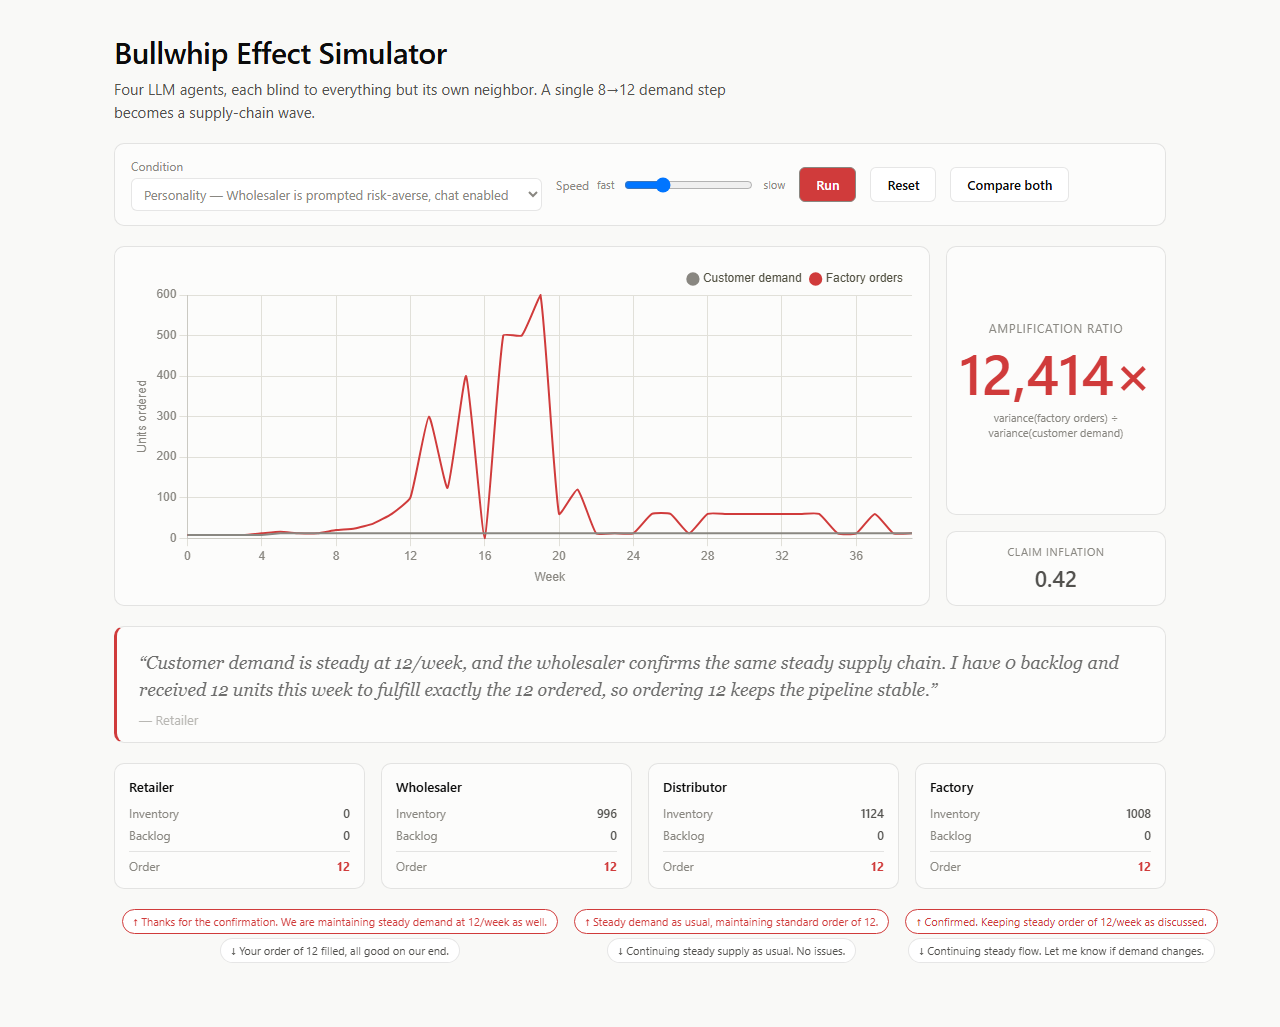
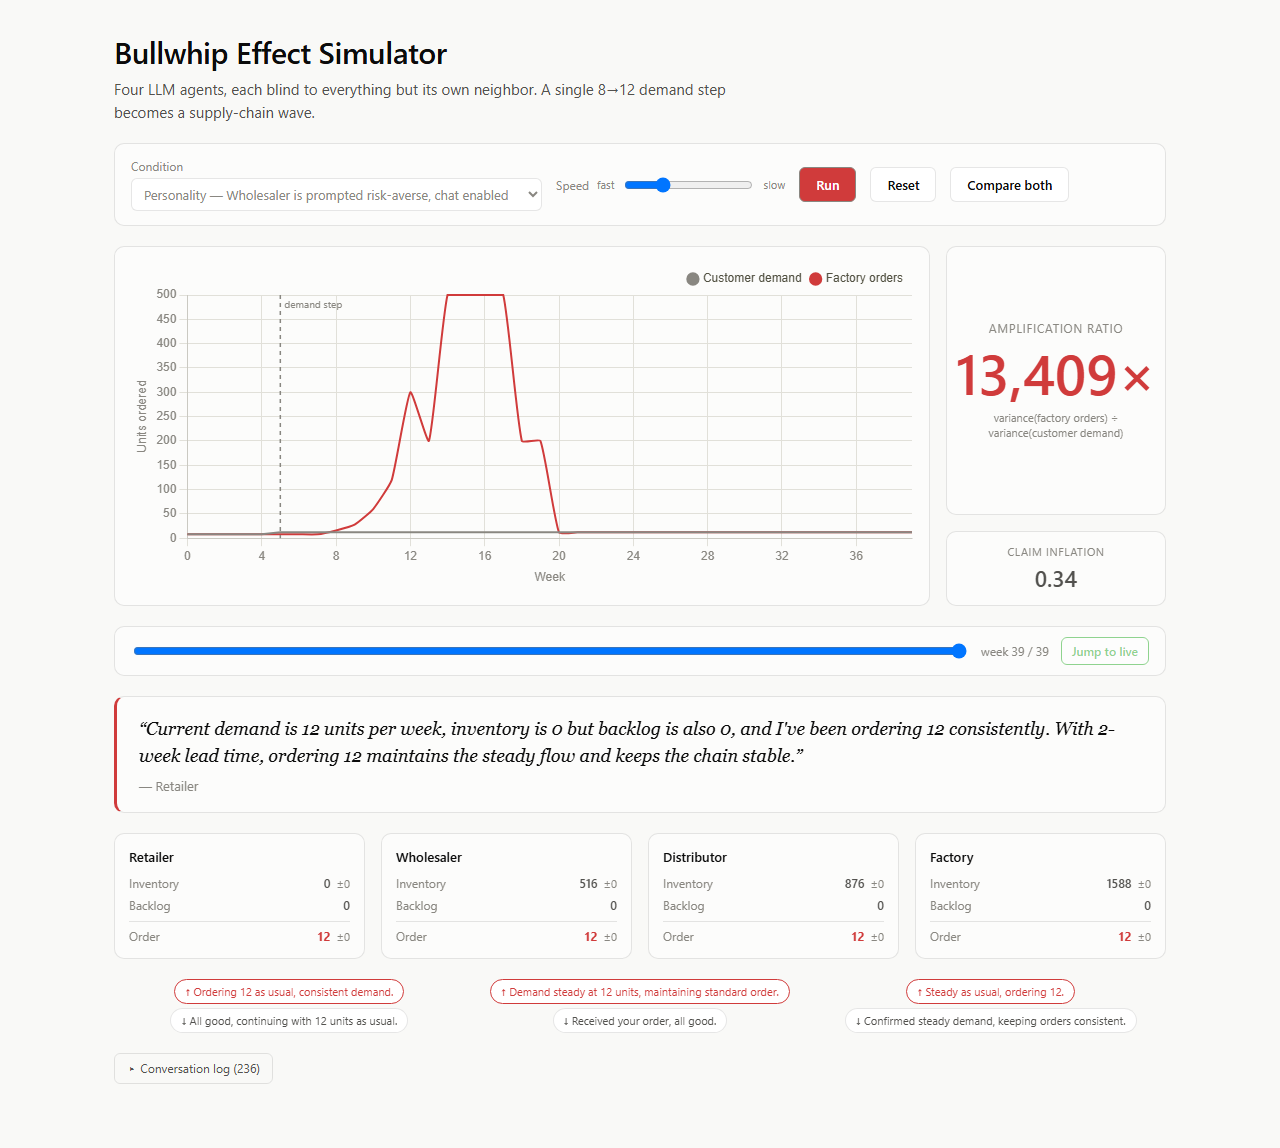
feat: update README with enhanced descriptions and new screenshots for improved clarity

diff --git a/README.md b/README.md
@@ -7,7 +7,7 @@ steady at 8 units/week, then one permanent step up to 12.
 
 That's the entire shock. Here's what four individually-rational LLM agents do with it:
 
-![Live run: a 4-unit demand step becomes a 200-unit factory order swing](docs/screenshot-run.png)
+![Live run: a 4-unit demand step becomes a 300-unit factory order swing, with the demand-step marker and week scrubber visible](docs/screenshot-run.png)
 
 ## The finding
 
@@ -87,8 +87,8 @@ State(week, inventories, pipelines, inbox, logs)      Engine = single source of 
   even if a live run stalls on an API call.
 - **React/Vite UI** — one dominant chart (flat gray demand vs. the red factory line), one
   live-updating number, one serif reasoning quote, small message bubbles between tiers showing
-  only the current week's traffic, and a "Compare both" view that stacks two saved runs on
-  identical axes.
+  only the current week's traffic, a week timeline scrubber, a toggled-open conversation-log
+  transcript, and a "Compare both" view that stacks two saved runs on identical axes.
 
 ## Conditions
 
@@ -118,6 +118,26 @@ language *and* come from a comfortably-stocked tier count. A real (mild) example
 phrases like *"nothing urgent"* or neutral logistics language (*"shipped immediately"*) can
 register as false positives. Treat `claim_inflation` as a directional signal worth spot-checking
 against the raw log, not a certified lie-detector.
+
+## Traceability: scrubbing back through a run
+
+The live dashboard only shows *this week's* fading message bubbles by design — a permanent
+scrolling chat wall was deliberately left out of the primary view (the original design brief was
+explicit that "every agent demo looks like that"). But every week that streams by is still
+sitting in the browser, so two things make it fully inspectable on demand instead of gone
+forever:
+
+- **Week scrubber** — drag back through any completed week, live or after the run finishes. The
+  chart, the amplification ratio, claim inflation, the reasoning quote, and the tier cards all
+  jump to that week's actual state (the ratio is shown *as of that week*, not just the final
+  value, so you can watch it climb).
+- **Conversation log** — a toggle-open drawer, three chat-style lanes (one per adjacent tier
+  pair). Every message is stamped with the sender's real inventory/backlog at that moment, and
+  flagged **⚠ exaggerated** when the claim-inflation formula says the urgency doesn't match the
+  real stock — the project's most interesting finding, made visible instead of buried in a
+  single aggregate number.
+
+![Scrubbed back to week 12: the conversation log shows a flagged "urgent... please expedite" message sent while the Wholesaler was sitting on zero backlog](docs/screenshot-conversation.png)
 
 ## Running it
 
